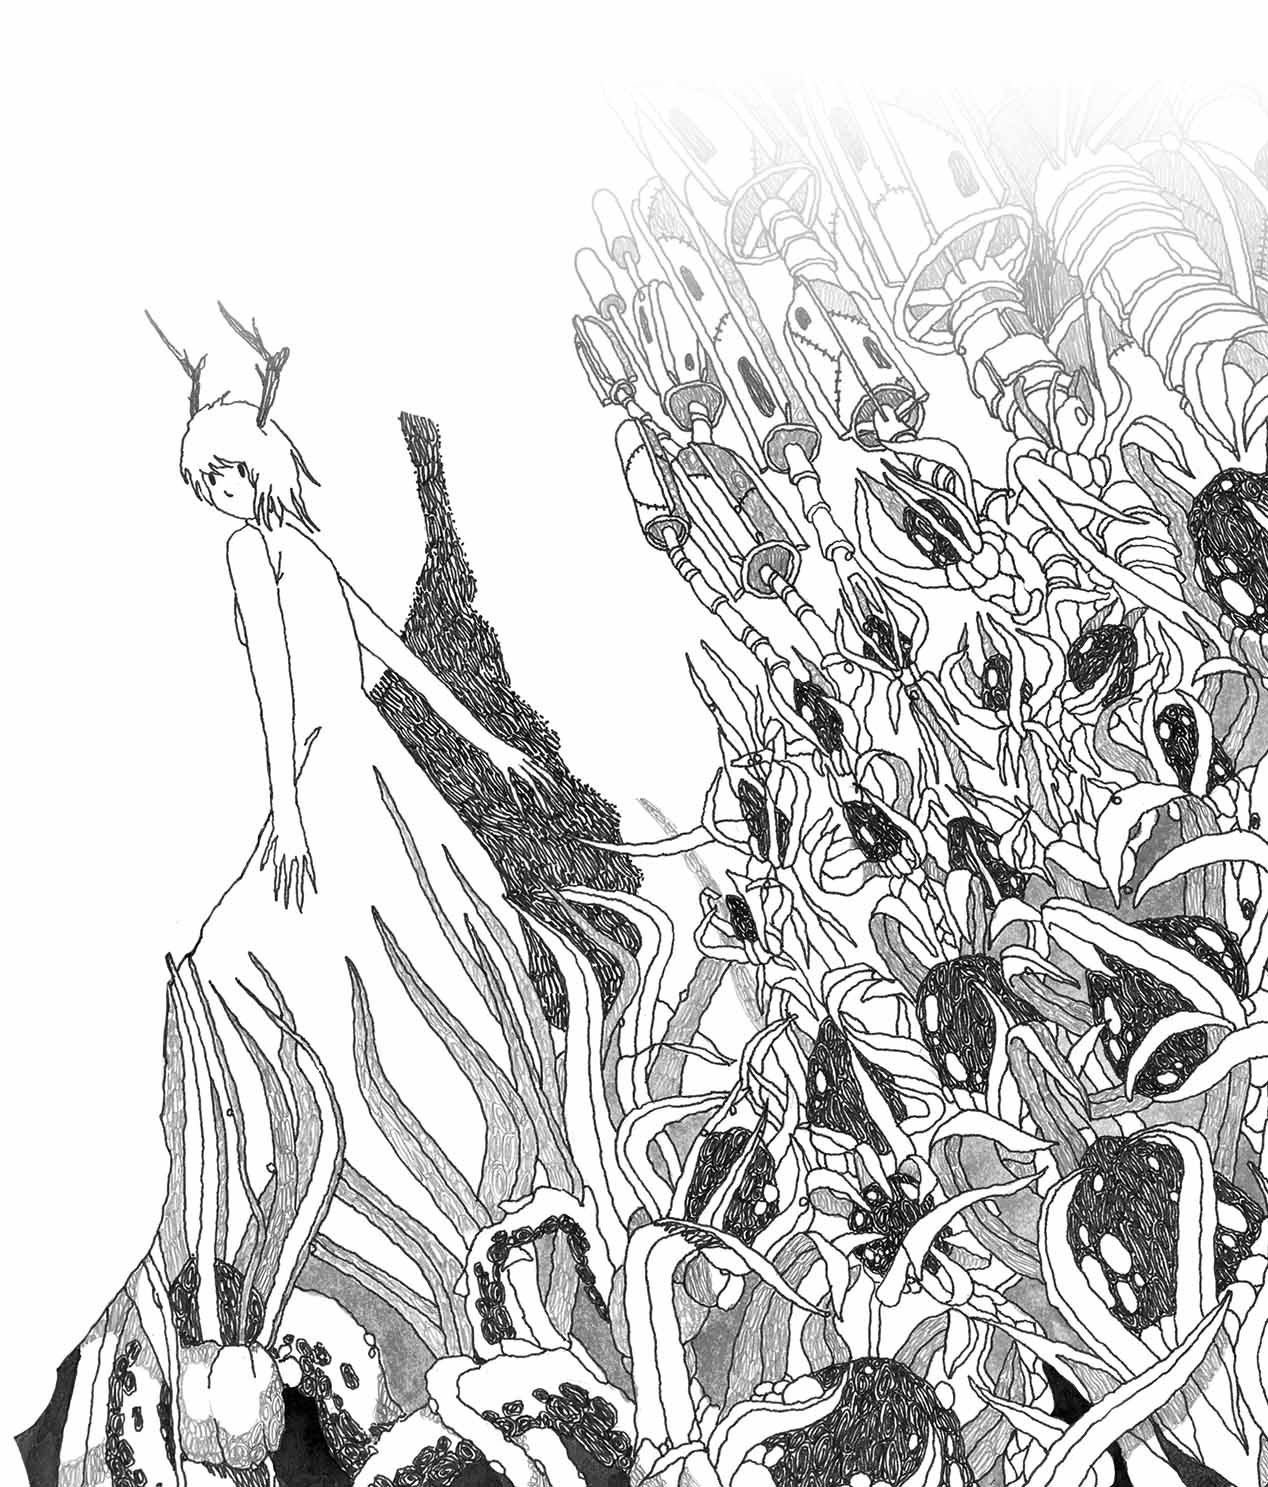
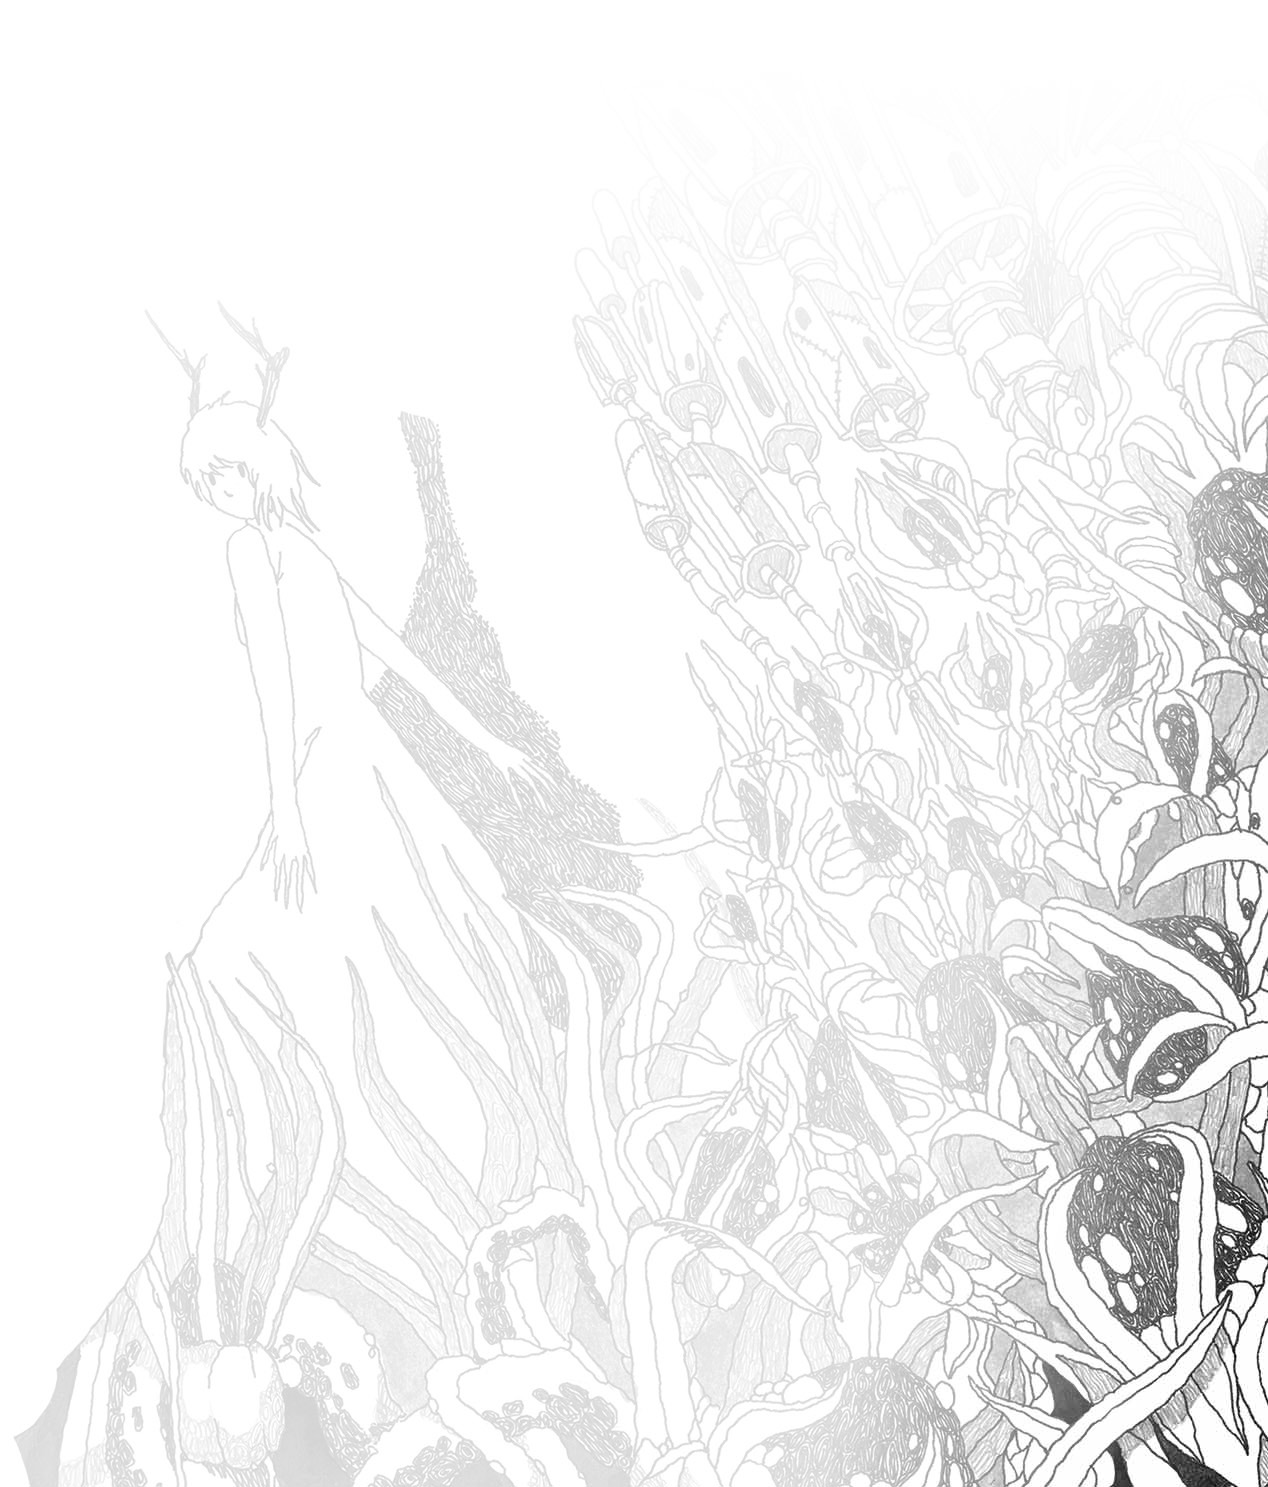
Small type and style improvements

diff --git a/style.css b/style.css
@@ -249,7 +249,7 @@ i {
 
 p, #copy > ul, li, h3 {
   color: #555;
-  line-height: 26px;
+  line-height: 1.33em;
   hyphens: auto;
   margin-bottom: 16px;
 }
@@ -272,7 +272,7 @@ table {
   color: #555;
   display: inline-table;
   font-size: 12.5pt;
-  line-height: 23.4px;
+  line-height: 1.197em;
   hyphens: auto;
   margin-top: 26px !important;
   width: 100%;
@@ -295,7 +295,7 @@ td > ul {
 
 td > ul > li {
   color: #555;
-  line-height: 23.4px;
+  line-height: 1.197em;
   margin-bottom: 0;
   padding-left: 0.75em !important;
 }
@@ -327,7 +327,7 @@ tr:first-child {
 
 #bg {
   bottom: 0;
-  opacity: 0.14;
+  opacity: 0.69;
   position: fixed;
   right: 0;
   width: 50%;
@@ -335,6 +335,7 @@ tr:first-child {
 }
 @media (max-width: 910px) {
   #bg {
+    opacity: 0.35;
     width: 90%;
   }
 }

diff --git a/source/style.scss b/source/style.scss
@@ -189,13 +189,14 @@ tr:first-child { border-top: 1px solid $separator-color; }
 
 #bg {
     bottom: 0;
-    opacity: 0.14;
+    opacity: 0.69;
     position: fixed;
     right: 0;
     width: 50%;
     z-index: -10;
 
     @media (max-width: $desktop-width) {
+        opacity: 0.35;
         width: 90%;
     }
 }

diff --git a/source/scss/_variables.scss b/source/scss/_variables.scss
@@ -7,7 +7,7 @@ $separator-color: #CCC;
 // Type parameters
 $copy-font-size: 13.5pt;
 $copy-title-size: 25pt;
-$copy-line-height: 26px;
+$copy-line-height: 1.33em;
 $copy-para-margin: 16px;
 
 // Dimensions
